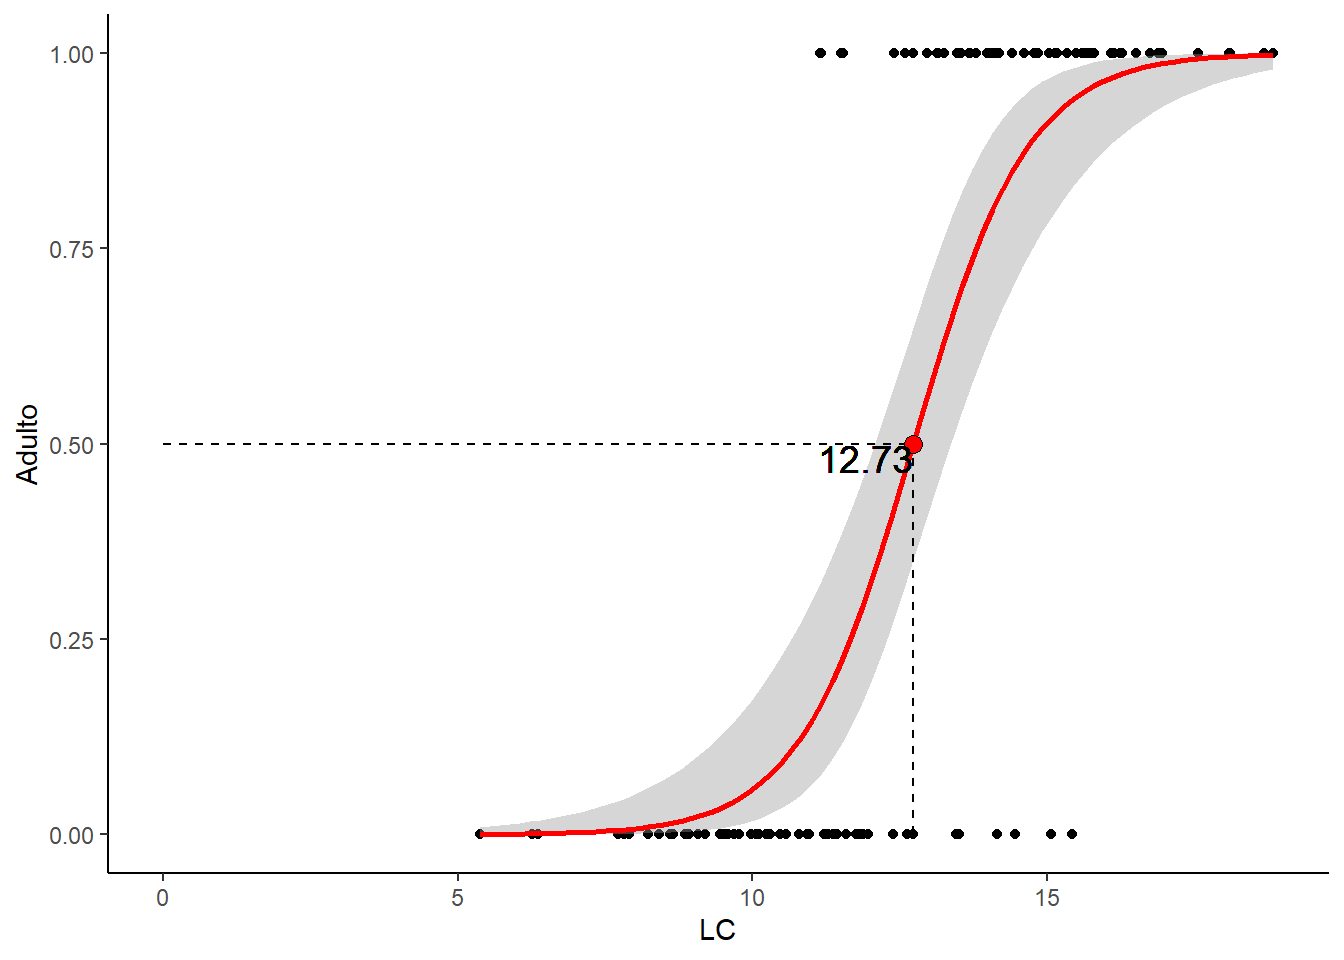
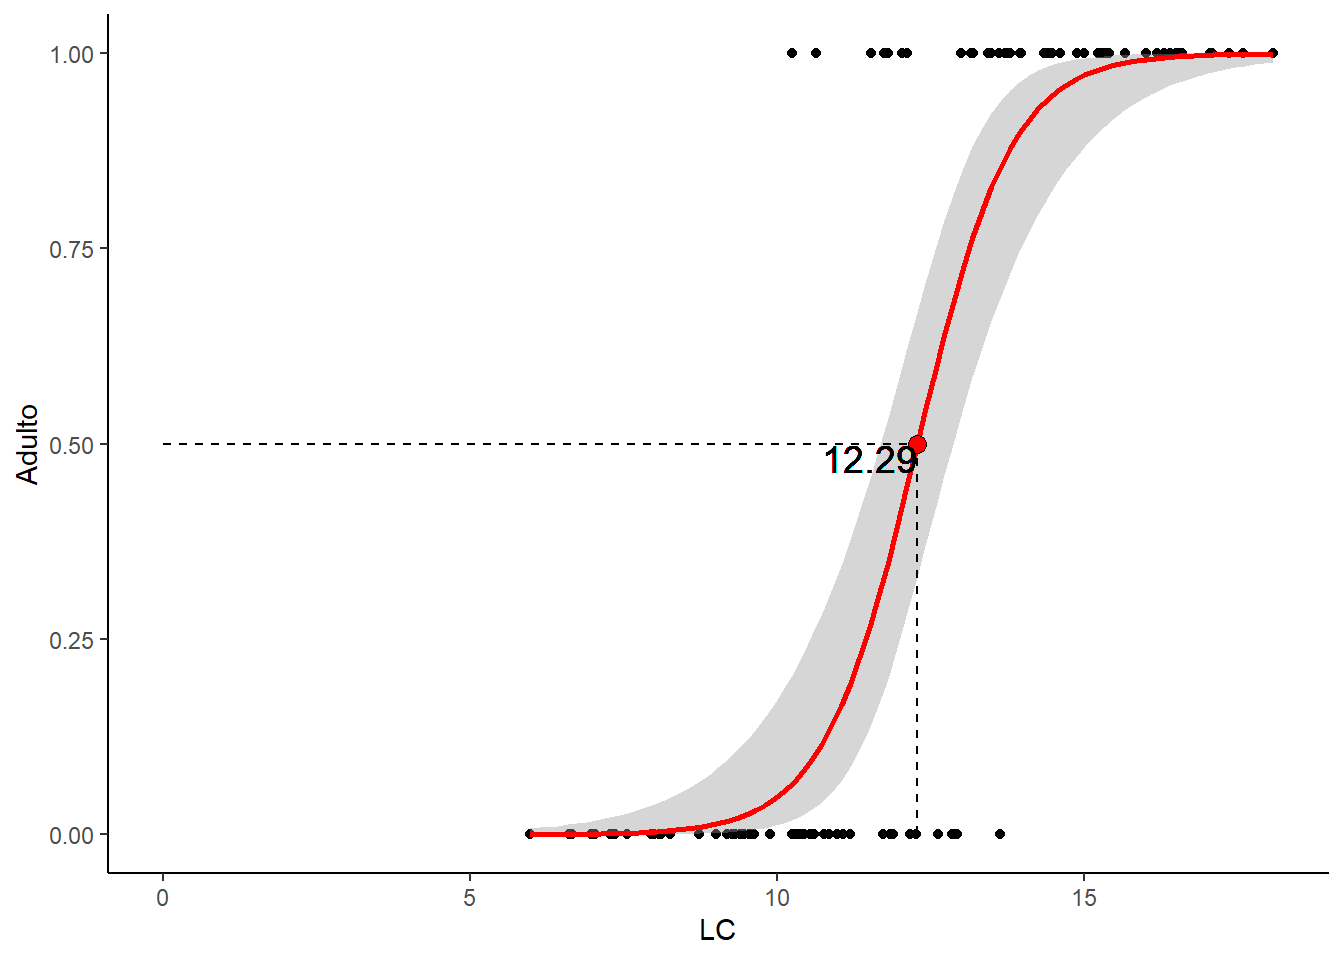
Update FD

diff --git a/public/post/FD/fd1/index.html b/public/post/FD/fd1/index.html
@@ -27,7 +27,7 @@
   
     
   
-  <meta name="description" content="A diversidade funcional vem se destacando como uma das mais promissoras maneiras de se medir a diversidade biológica, por incorporar traços funcionas que possuem algum valor ecológico e que possuem alguma importância na manutenção dos serviços ecossistêmicos.">
+  <meta name="description" content="A diversidade funcional vem se destacando como uma das mais promissoras maneiras de se medir a diversidade biológica, por incorporar traços funcionais que possuem algum valor ecológico e que possuem alguma importância na manutenção dos serviços ecossistêmicos.">
 
   
   <link rel="alternate" hreflang="pt" href="/post/fd/fd1/">
@@ -242,7 +242,7 @@
   <meta property="og:site_name" content="Gabriel Rodrigues">
   <meta property="og:url" content="/post/fd/fd1/">
   <meta property="og:title" content="Medindo a diversidade funcional | Gabriel Rodrigues">
-  <meta property="og:description" content="A diversidade funcional vem se destacando como uma das mais promissoras maneiras de se medir a diversidade biológica, por incorporar traços funcionas que possuem algum valor ecológico e que possuem alguma importância na manutenção dos serviços ecossistêmicos."><meta property="og:image" content="/images/icon_hu0b7a4cb9992c9ac0e91bd28ffd38dd00_9727_512x512_fill_lanczos_center_2.png">
+  <meta property="og:description" content="A diversidade funcional vem se destacando como uma das mais promissoras maneiras de se medir a diversidade biológica, por incorporar traços funcionais que possuem algum valor ecológico e que possuem alguma importância na manutenção dos serviços ecossistêmicos."><meta property="og:image" content="/images/icon_hu0b7a4cb9992c9ac0e91bd28ffd38dd00_9727_512x512_fill_lanczos_center_2.png">
   <meta property="twitter:image" content="/images/icon_hu0b7a4cb9992c9ac0e91bd28ffd38dd00_9727_512x512_fill_lanczos_center_2.png"><meta property="og:locale" content="pt">
   
     
@@ -292,7 +292,7 @@
       "url": "/images/icon_hu0b7a4cb9992c9ac0e91bd28ffd38dd00_9727_192x192_fill_lanczos_center_2.png"
     }
   },
-  "description": "A diversidade funcional vem se destacando como uma das mais promissoras maneiras de se medir a diversidade biológica, por incorporar traços funcionas que possuem algum valor ecológico e que possuem alguma importância na manutenção dos serviços ecossistêmicos."
+  "description": "A diversidade funcional vem se destacando como uma das mais promissoras maneiras de se medir a diversidade biológica, por incorporar traços funcionais que possuem algum valor ecológico e que possuem alguma importância na manutenção dos serviços ecossistêmicos."
 }
 </script>
 
@@ -602,7 +602,7 @@
       
 
 
-<p>A diversidade funcional vem se destacando como uma das mais promissoras maneiras de se medir a diversidade biológica, por incorporar traços funcionas que possuem algum valor ecológico e que possuem alguma importância na manutenção dos serviços ecossistêmicos. Sendo assim, a proposta discutida por <span class="citation">(Villéger, Mason, and Mouillot 2008)</span> é de utilizar três índices independentes e complementares para descrever a diversidade funcional de uma determinada comunidade.</p>
+<p>A diversidade funcional vem se destacando como uma das mais promissoras maneiras de se medir a diversidade biológica, por incorporar traços funcionais que possuem algum valor ecológico e que possuem alguma importância na manutenção dos serviços ecossistêmicos. Sendo assim, a proposta discutida por <span class="citation">(Villéger, Mason, and Mouillot 2008)</span> é de utilizar três índices independentes e complementares para descrever a diversidade funcional de uma determinada comunidade.</p>
 <p>Os índices são:</p>
 <ol style="list-style-type: decimal">
 <li><strong>Functional Richness (Frich)</strong></li>

diff --git a/content/post/FD/FD1.html b/content/post/FD/FD1.html
@@ -13,7 +13,7 @@ bibliography: scholar.bib
 
 
 
-<p>A diversidade funcional vem se destacando como uma das mais promissoras maneiras de se medir a diversidade biológica, por incorporar traços funcionas que possuem algum valor ecológico e que possuem alguma importância na manutenção dos serviços ecossistêmicos. Sendo assim, a proposta discutida por <span class="citation">(Villéger, Mason, and Mouillot 2008)</span> é de utilizar três índices independentes e complementares para descrever a diversidade funcional de uma determinada comunidade.</p>
+<p>A diversidade funcional vem se destacando como uma das mais promissoras maneiras de se medir a diversidade biológica, por incorporar traços funcionais que possuem algum valor ecológico e que possuem alguma importância na manutenção dos serviços ecossistêmicos. Sendo assim, a proposta discutida por <span class="citation">(Villéger, Mason, and Mouillot 2008)</span> é de utilizar três índices independentes e complementares para descrever a diversidade funcional de uma determinada comunidade.</p>
 <p>Os índices são:</p>
 <ol style="list-style-type: decimal">
 <li><strong>Functional Richness (Frich)</strong></li>

diff --git a/public/index.html b/public/index.html
@@ -1013,7 +1013,7 @@
     
     <a href="/post/fd/fd1/" class="summary-link">
       <div class="article-style">
-        A diversidade funcional vem se destacando como uma das mais promissoras maneiras de se medir a diversidade biológica, por incorporar traços funcionas que possuem algum valor ecológico e que possuem alguma importância na manutenção dos serviços ecossistêmicos.
+        A diversidade funcional vem se destacando como uma das mais promissoras maneiras de se medir a diversidade biológica, por incorporar traços funcionais que possuem algum valor ecológico e que possuem alguma importância na manutenção dos serviços ecossistêmicos.
       </div>
     </a>
     

diff --git a/public/post/index.html b/public/post/index.html
@@ -707,7 +707,7 @@
     
     <a href="/post/fd/fd1/" class="summary-link">
       <div class="article-style">
-        A diversidade funcional vem se destacando como uma das mais promissoras maneiras de se medir a diversidade biológica, por incorporar traços funcionas que possuem algum valor ecológico e que possuem alguma importância na manutenção dos serviços ecossistêmicos.
+        A diversidade funcional vem se destacando como uma das mais promissoras maneiras de se medir a diversidade biológica, por incorporar traços funcionais que possuem algum valor ecológico e que possuem alguma importância na manutenção dos serviços ecossistêmicos.
       </div>
     </a>
     

diff --git a/public/post/MS/lc50/index.html b/public/post/MS/lc50/index.html
@@ -618,7 +618,7 @@ df&lt;- data.frame(LC = c(Jovens, Adultos), Maturidade = c(rep(&quot;Jovem&quot;
 <pre class="r"><code>LC50 = (log(.5/(1-.5)) - coef(model1)[1])/coef(model1)[2]
 LC50</code></pre>
 <pre><code>## (Intercept) 
-##    12.73212</code></pre>
+##    12.28912</code></pre>
 <div id="representando-graficamente" class="section level3">
 <h3>Representando graficamente</h3>
 <p>Podemos representar graficamente a distribuição da função encontrada pelo modelo e ainda o valor de LC50 obtido.</p>

diff --git a/content/post/MS/LC50.html b/content/post/MS/LC50.html
@@ -29,7 +29,7 @@ df&lt;- data.frame(LC = c(Jovens, Adultos), Maturidade = c(rep(&quot;Jovem&quot;
 <pre class="r"><code>LC50 = (log(.5/(1-.5)) - coef(model1)[1])/coef(model1)[2]
 LC50</code></pre>
 <pre><code>## (Intercept) 
-##    12.73212</code></pre>
+##    12.28912</code></pre>
 <div id="representando-graficamente" class="section level3">
 <h3>Representando graficamente</h3>
 <p>Podemos representar graficamente a distribuição da função encontrada pelo modelo e ainda o valor de LC50 obtido.</p>
